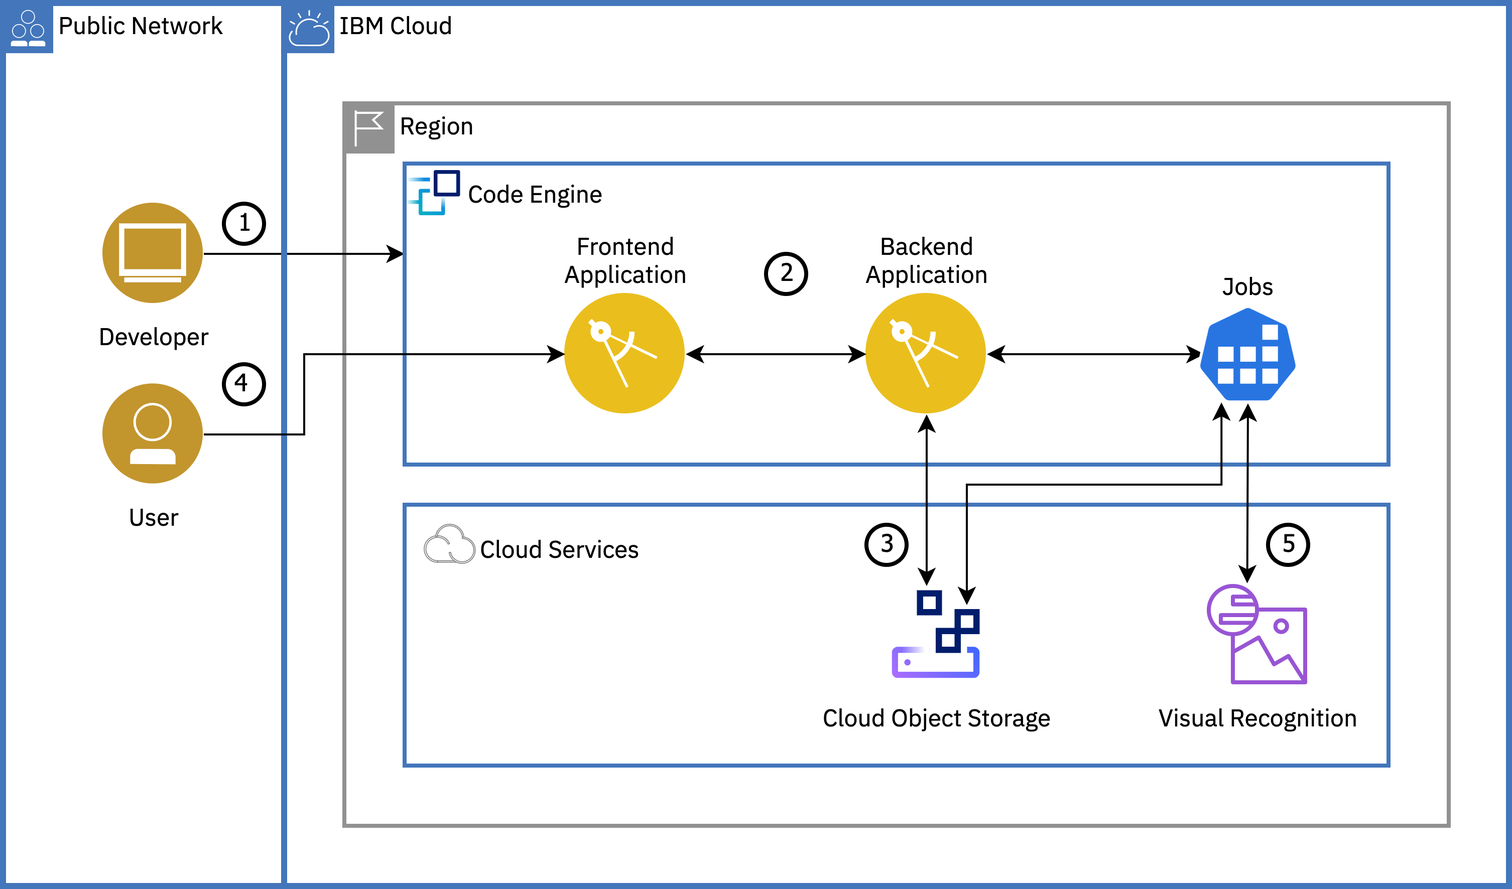
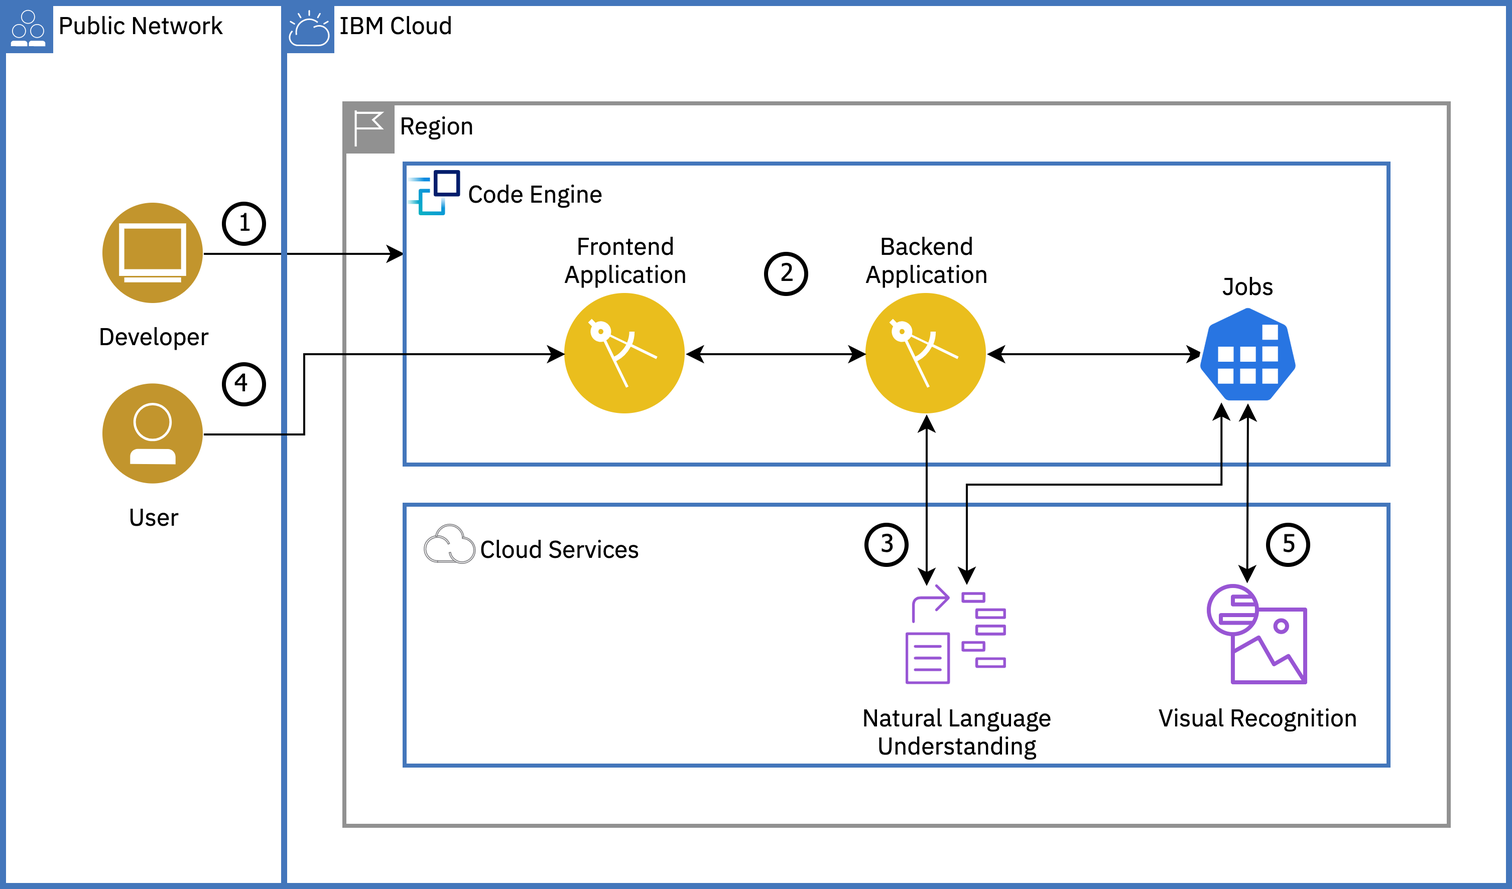
Code Engine VR --> NLU

Changed region(s): [[0.5618, 0.6518, 0.6866, 0.8691]]

diff --git a/image-classification-code-engine.md b/image-classification-code-engine.md
@@ -2,11 +2,11 @@
 subcollection: solution-tutorials
 copyright:
   years: 2020
-lastupdated: "2020-10-19"
-lasttested: "2020-09-23"
+lastupdated: "2020-12-01"
+lasttested: "2020-12-01"
 
 content-type: tutorial
-services: codeengine, containers, cloud-object-storage, visual-recognition
+services: codeengine, containers, cloud-object-storage
 account-plan: paid
 completion-time: 2h
 
@@ -27,10 +27,10 @@ completion-time: 2h
 {:note: .note}
 {:beta: .beta}
 
-# Visual recognition with {{site.data.keyword.codeengineshort}}
+# Text analysis with {{site.data.keyword.codeengineshort}}
 {: #image_classification_code_engine}
 {: toc-content-type="tutorial"}
-{: toc-services="codeengine, containers, cloud-object-storage, visual-recognition"}
+{: toc-services="codeengine, containers, cloud-object-storage"}
 {: toc-completion-time="2h"}
 
 <!--##istutorial#-->
@@ -41,15 +41,17 @@ This tutorial may incur costs. Use the [Cost Estimator](https://{DomainName}/est
 {:beta}
 <!--#/istutorial#-->
 
-In this tutorial, you will learn about {{site.data.keyword.codeenginefull}} by deploying an image classification (visual recognition) application. You will create a {{site.data.keyword.codeengineshort}} project, select the project and deploy {{site.data.keyword.codeengineshort}} components - applications and jobs to the project. You will learn how to bind {{site.data.keyword.cloud_notm}} services to your {{site.data.keyword.codeengineshort}} components. You will also understand the auto-scaling capability of {{site.data.keyword.codeengineshort}} where instances are scaled up or down (to zero) based on incoming workload.
+In this tutorial, you will learn about {{site.data.keyword.codeenginefull}} by deploying a text analysis application. You will create a {{site.data.keyword.codeengineshort}} project, select the project and deploy {{site.data.keyword.codeengineshort}} components - applications and jobs to the project. You will learn how to bind {{site.data.keyword.cloud_notm}} services to your {{site.data.keyword.codeengineshort}} components. You will also understand the auto-scaling capability of {{site.data.keyword.codeengineshort}} where instances are scaled up or down (to zero) based on incoming workload.
 {:shortdesc}
 
 {{site.data.keyword.codeenginefull_notm}} provides a platform to unify the deployment of all of your container-based applications. Whether those applications are functions, traditional 12-factor apps, batch workloads(run-to-completion) or any other container-based workloads, if they can be bundled into a container image, then {{site.data.keyword.codeengineshort}} can host and manage them for you - all on a Kubernetes-based infrastructure. And {{site.data.keyword.codeengineshort}} does this without the need for you to learn, or even know about, Kubernetes. The {{site.data.keyword.codeengineshort}} experience is designed so that you can focus on writing code and not on the infrastructure needed to host it. It is delivered as a managed service on the cloud and built on open-source projects (Kubernetes, Istio, Knative, Tekton, etc.).
 
 {{site.data.keyword.codeengineshort}} helps developers by hiding many of the complex tasks like configuration, dependency management etc., {{site.data.keyword.codeengineshort}} simplifies container-based management and enables you to concentrate on writing code. It also makes available many of the features of a serverless platform, such as "scale-to-zero".
 
+With {{site.data.keyword.nlufull}}, developers can analyze semantic features of text input, including categories, concepts, emotion, entities, keywords, metadata, relations, semantic roles, and sentiment.
+
 ## Objectives
-{: #image-classification-code-engine-objectives}
+{: #text-analysis-code-engine-objectives}
 
 * Understand {{site.data.keyword.codeenginefull}} and how it simplifies the developer experience.
 * Understand how easy it is to deploy and scale an application using {{site.data.keyword.codeengineshort}}.
@@ -64,11 +66,11 @@ In this tutorial, you will learn about {{site.data.keyword.codeenginefull}} by d
 1. Developer creates a {{site.data.keyword.codeengineshort}} project and deploys a frontend and a backend {{site.data.keyword.codeengineshort}} application.
 2. Developer connects the frontend (UI) app to the backend by modifying the frontend application to set an environment variable value to point to the backend application's endpoint.
 3. Developer provisions the required cloud services and binds them to the backend application and jobs by creating secrets and configmap.
-4. User uploads an image(s) via the frontend app that is stored in {{site.data.keyword.cos_short}} through the backend application.
-5. User runs a {{site.data.keyword.codeengineshort}} job via the backend to classify the image by pushing the image to {{site.data.keyword.visualrecognitionshort}}. The result is then saved to {{site.data.keyword.cos_short}} and displayed in the frontend app when the user clicks the refresh button.
+4. User uploads a text file(s) via the frontend app that is stored in {{site.data.keyword.cos_short}} through the backend application.
+5. User runs a {{site.data.keyword.codeengineshort}} job via the backend to analyze text by pushing the text to {{site.data.keyword.nlushort}}. The result is then saved to {{site.data.keyword.cos_short}} and displayed in the frontend app when the user clicks the refresh button.
 
 ## Before you begin
-{: #image-classification-code-engine-prereqs}
+{: #text-analysis-code-engine-prereqs}
 
 This tutorial requires:
 * {{site.data.keyword.cloud_notm}} CLI - This CLI tool will enable you to interact with {{site.data.keyword.cloud_notm}}.
@@ -83,7 +85,7 @@ You will find instructions to download and install these tools for your operatin
 
 
 ## Create an {{site.data.keyword.codeenginefull_notm}} project
-{: #image-classification-code-engine-create_code_engine_project}
+{: #text-analysis-code-engine-create_code_engine_project}
 {: step}
 
 In this section, you will create a {{site.data.keyword.codeengineshort}} project. A project is a grouping of the components of your project that are typically meant to go together as part of some overall workload.
@@ -113,15 +115,15 @@ Putting components into a single project enables you to manage access control mo
    {:pre}
 
 ## Deploy the frontend and backend apps as {{site.data.keyword.codeengineshort}} applications
-{: #image-classification-code-engine-deploy_app}
+{: #text-analysis-code-engine-deploy_app}
 {: step}
 
-{{site.data.keyword.codeengineshort}} Applications run your code to serve HTTP requests, autoscale up and back down to zero, and offer traffic routing to multiple revisions. In this section, you will deploy your front-end and back-end applications to {{site.data.keyword.codeengineshort}} under the targeted project. This front-end web application will allow users to upload images, while the backend application will write the image to {{site.data.keyword.cos_full_notm}}.
+{{site.data.keyword.codeengineshort}} Applications run your code to serve HTTP requests, autoscale up and back down to zero, and offer traffic routing to multiple revisions. In this section, you will deploy your front-end and back-end applications to {{site.data.keyword.codeengineshort}} under the targeted project. This front-end web application will allow users to upload text files, while the backend application will write the file to {{site.data.keyword.cos_full_notm}}.
 
 We've already built images for the two applications and pushed them to the public container registry. You will use these pre-built container images to deploy the respective applications.
 
 ### Deploy a frontend application
-{: #image-classification-code-engine-4}
+{: #text-analysis-code-engine-4}
 
 1. To deploy a new {{site.data.keyword.codeengineshort}} application, you need to run the following command; providing a service name "frontend" and the pre-built container image as a parameter to `--image` flag.
 
@@ -130,9 +132,9 @@ We've already built images for the two applications and pushed them to the publi
    ```
    {:pre}
 
-   After running this command, you should see some output with a URL to your application. It should look something like: `https://frontend.b7bb43f4-525e.us-south.codeengine.appdomain.cloud`. Make note of this application URL for the next step. With just these two pieces of data (application name and image name), {{site.data.keyword.codeengineshort}} has deployed your application and will handle all of the complexities of configuring it and managing it for you.
+   After running this command, you should see some output with a URL to your application. It should look something like: `https://frontend.305atabsd0w.us-south.codeengine.appdomain.cloud`. Make note of this application URL for the next step. With just these two pieces of data (application name and image name), {{site.data.keyword.codeengineshort}} has deployed your application and will handle all of the complexities of configuring it and managing it for you.
 
-   The application source code used to build the container images - `ibmcom/*` is available in a [GitHub repo](https://github.com/IBM-Cloud/code-engine-image-classification) for your reference.
+   The application source code used to build the container images - `ibmcom/*` is available in a [GitHub repo](https://github.com/IBM-Cloud/code-engine-text-analysis) for your reference.
    {:tip}
 
 2. Copy the URL from the `application create` output and open it in a browser to see an output similar to this
@@ -150,7 +152,7 @@ We've already built images for the two applications and pushed them to the publi
 Congratulations!! You've just deployed a web application to {{site.data.keyword.codeengineshort}} with a simple command and also without needing to know about the intricacies of Kubernetes such as pods, deployments, services, and ingress.
 
 ### Scale the application
-{: #image-classification-code-engine-5}
+{: #text-analysis-code-engine-5}
 
 When you created the application with the `application create` command, you only passed in an image to use and a name for your application. While this is the minimum amount of information to deploy an application, there are a number of other knobs you have control over. Among others, you can set the number of requests that can be processed concurrently per instance, the amount of CPU for the instance of the application, the amount of memory set for the instance of the application, the environment variables for the application, the maximum and minimum number of instances that can be used for this application, and the port where the application listens for requests.
 
@@ -177,17 +179,17 @@ Most of these values have a default set if nothing is provided as an option when
 
     Expected Output:
     ```
-    frontend-i4fmh-2-deployment-6996489d7c-4lq4w   2/2     Running       0          59s
-    frontend-i4fmh-2-deployment-6996489d7c-5d5nx   1/2     Running       0          8s
-    frontend-i4fmh-2-deployment-6996489d7c-697g2   1/2     Running       0          6s
-    frontend-i4fmh-2-deployment-6996489d7c-t27d2   1/2     Running       0          8s
-    frontend-i4fmh-2-deployment-6996489d7c-vzmdd   1/2     Running       0          9s
+    frontend-gxbsr-2-deployment-5f55c4cf6f-869fb  2/2      Running  0         24s
+    frontend-gxbsr-2-deployment-5f55c4cf6f-bg2cn  1/2      Running  0         9s
+    frontend-gxbsr-2-deployment-5f55c4cf6f-ckxqw  2/2      Running  0         9s
+    frontend-gxbsr-2-deployment-5f55c4cf6f-djcj6  2/2      Running  0         9s
+    frontend-gxbsr-2-deployment-5f55c4cf6f-wb6j8  2/2      Running  0         9s
     ```
 
 ### Deploy a backend application and test the connection
-{: #image-classification-code-engine-6}
+{: #text-analysis-code-engine-6}
 
-1. To deploy a new backend application to store your images into {{site.data.keyword.cos_full_notm}}, run this command
+1. To deploy a new backend application to store your text files into {{site.data.keyword.cos_full_notm}}, run this command
    ```sh
    ibmcloud code-engine application create --name backend --image ibmcom/backend --cluster-local
    ```
@@ -209,18 +211,18 @@ Most of these values have a default set if nothing is provided as an option when
    The `--env` flag can appear as many times as you would like if you need to set more than one environment variable. This option could have also been used on the `ibmcloud code-engine application create` command for the frontend application if you knew its value at that time.
    {:tip}
 
-4. Refresh the frontend URL on the browser to test the connection to the backend application. You should see a page with an option to upload an image and also an error message from the backend application as the backend is still not connected with the required {{site.data.keyword.cloud_notm}} services to store and process the image. Clicking on **Upload image** should also show a similar error message.
+4. Refresh the frontend URL on the browser to test the connection to the backend application. You should see a page with an option to upload a text file(.txt) and also an error message from the backend application as the backend is still not connected with the required {{site.data.keyword.cloud_notm}} services to store and process the text files. Clicking on **Upload text file** should also show a similar error message.
    ![](images/solution54-code-engine/frontend.png)
 
 ## Connect the backend application to {{site.data.keyword.cos_short}} service
-{: #image-classification-code-engine-0}
+{: #text-analysis-code-engine-0}
 {:connect_cloud_services}
 {: step}
 
-In this section, you will provision the required {{site.data.keyword.cos_short}} and {{site.data.keyword.visualrecognitionshort}} services and bind the {{site.data.keyword.cos_short}} service to the backend application. The backend application will store the images into the {{site.data.keyword.cos_short}}, while the {{site.data.keyword.visualrecognitionshort}} will be used later in the tutorial to classify the images.
+In this section, you will provision the required {{site.data.keyword.cos_short}} and {{site.data.keyword.nlushort}} services and bind the {{site.data.keyword.cos_short}} service to the backend application. The backend application will store the text files into the {{site.data.keyword.cos_short}}, while the {{site.data.keyword.nlushort}} will be used later in the tutorial to perform text analysis on the uploaded text files.
 
-### Provision {{site.data.keyword.cos_short}} and {{site.data.keyword.visualrecognitionshort}} services
-{: #image-classification-code-engine-create_services}
+### Provision {{site.data.keyword.cos_short}} and {{site.data.keyword.nlushort}} services
+{: #text-analysis-code-engine-create_services}
 
 1. Create an instance of [{{site.data.keyword.cos_short}}](https://{DomainName}/catalog/services/cloud-object-storage)
    1. Select the **Lite** plan or the **Standard** plan if you already have an {{site.data.keyword.cos_short}} service instance in your account.
@@ -236,20 +238,20 @@ In this section, you will provision the required {{site.data.keyword.cos_short}}
    4. Click **Create bucket**
 4. On the left pane under **Endpoints**, Select **Cross Region** resiliency and select a Location near to you.
 5. Copy the desired **Public** endpoint to access your bucket and **save** the endpoint for quick reference.
-6. Create an instance of [{{site.data.keyword.visualrecognitionshort}}](https://{DomainName}/catalog/services/visual-recognition)
-   1. Select a region and select **Standard** plan.
-   2. Set **Service name** to **code-engine-vr** and select a resource group where you created the {{site.data.keyword.codeengineshort}} project.
+6. Create an instance of [{{site.data.keyword.nlushort}}](https://{DomainName}/catalog/services/natural-language-understanding)
+   1. Select a region and select **Lite** plan.
+   2. Set **Service name** to **code-engine-nlu** and select a resource group where you created the {{site.data.keyword.codeengineshort}} project.
    3. Click on **Create**.
 7. Under **Service credentials**, click on **New credential**
-   1. Give it a name - `vr-for-code-engine` and select **Writer** as the role.
+   1. Give it a name - `nlu-for-code-engine` and select **Writer** as the role.
    2. Click **Add**.
 
 ### Bind the {{site.data.keyword.cos_short}} service to the backend application
-{: #image-classification-code-engine-9}
+{: #text-analysis-code-engine-9}
 
 Now, you will need to pass in the credentials for the {{site.data.keyword.cos_full_notm}} instance you just created into your backend application. You will do this by binding the {{site.data.keyword.cos_short}} service to your application, which automatically adds credentials for a service to the environment variables of the container for your application or job.
 
-1. Create a binding for {{site.data.keyword.cos_short}} service with a prefix `COS` for ease of use in your application. Creating this binding will give your {{site.data.keyword.codeengineshort}} application access to the service credentials for {{site.data.keyword.cos_full_notm}} so that it can store images in COS.
+1. Create a binding for {{site.data.keyword.cos_short}} service with a prefix `COS` for ease of use in your application. Creating this binding will give your {{site.data.keyword.codeengineshort}} application access to the service credentials for {{site.data.keyword.cos_full_notm}} so that it can store files in COS.
    ```sh
    ibmcloud code-engine application bind --name backend --service-instance code-engine-cos --service-credential cos-for-code-engine --prefix COS
    ```
@@ -258,7 +260,7 @@ Now, you will need to pass in the credentials for the {{site.data.keyword.cos_fu
    If you have created the {{site.data.keyword.cos_short}} service instance with a different name, pass your service name with `--service-instance` flag.
    {:tip}
 
-2. You will also need to provide the application with your Bucket name where you want to store the images, as well as your COS endpoint. Define a configmap to hold the bucket name and the endpoint as the information isn't sensitive. ConfigMaps are a Kubernetes object, which allows you to decouple configuration artifacts from image content to keep containerized applications portable. You could create this configmap from a file or from a key value pair -- for now we'll use a key value pair with the `--from-literal` flag.
+2. You will also need to provide the application with your Bucket name where you want to store the text files, as well as your COS endpoint. Define a configmap to hold the bucket name and the endpoint as the information isn't sensitive. ConfigMaps are a Kubernetes object, which allows you to decouple configuration artifacts from image content to keep containerized applications portable. You could create this configmap from a file or from a key value pair -- for now we'll use a key value pair with the `--from-literal` flag.
    ```sh
    ibmcloud code-engine configmap create --name backend-configuration --from-literal=COS_BUCKETNAME=<COS_BUCKET_NAME> --from-literal=COS_ENDPOINT=<COS_ENDPOINT>
    ```
@@ -280,19 +282,19 @@ Now, you will need to pass in the credentials for the {{site.data.keyword.cos_fu
    {:pre}
 
 ## Test the application
-{: #image-classification-code-engine-test_the_app}
+{: #text-analysis-code-engine-test_the_app}
 {: step}
 
-Now that you have the backend application connected to the frontend application and provided all the required credentials, let's test it by uploading images for image classification. To test, you will create a job configuration and use the job configuration to run a job to classify images using {{site.data.keyword.visualrecognitionshort}} service.
+Now that you have the backend application connected to the frontend application and provided all the required credentials, let's test it by uploading files for text analysis. To test, you will create a job configuration and use the job configuration to run a job to analyze text using {{site.data.keyword.nlushort}} service.
 
 Jobs in {{site.data.keyword.codeengineshort}} are meant to run to completion as batch or standalone executables. They are not intended to provide lasting endpoints to access like a {{site.data.keyword.codeengineshort}} application does.
 
 ### Create a job configuration
-{: #image-classification-code-engine-11}
+{: #text-analysis-code-engine-11}
 
 Jobs, unlike applications which react to incoming HTTP requests, are meant to be used for running container images that contain an executable designed to run one time and then exit. When you create a `job`, you can specify workload configuration information that is used each time the job is run. You can create a job from the console or with the CLI.
 
-This job will read images from {{site.data.keyword.cos_full_notm}}, and then classify them using the {{site.data.keyword.visualrecognitionshort}} Service. It will need to have access to service credentials for both services.
+This job will read text files from {{site.data.keyword.cos_full_notm}}, and then analyze them using the {{site.data.keyword.nlushort}} Service. It will need to have access to service credentials for both services.
 
 1. On a terminal, run the following command to create a job configuration,
    ```sh
@@ -300,32 +302,32 @@ This job will read images from {{site.data.keyword.cos_full_notm}}, and then cla
    ```
    {:pre}
 
-   You can set the version of {{site.data.keyword.visualrecognitionshort}} service using the `--env` flag. For versioning, check this [link](https://{DomainName}/apidocs/visual-recognition/visual-recognition-v3#versioning)
+   You can set the version of {{site.data.keyword.nlushort}} service using the `--env` flag. For versioning, check this [link](https://{DomainName}/docs/natural-language-understanding?topic=natural-language-understanding-versioning)
    {:tip}
 
 ### Bind the {{site.data.keyword.cloud_notm}} services to job
-{: #image-classification-code-engine-12}
+{: #text-analysis-code-engine-12}
 
 1. Let's create a binding for {{site.data.keyword.cos_short}} service with a prefix `COS_JOB` to be used with the jobs in the subsequent steps,
    ```sh
    ibmcloud code-engine job bind --name backend-job --service-instance code-engine-cos --service-credential cos-for-code-engine --prefix COS_JOB
    ```
    {:pre}
-1. Similarly, let's bind {{site.data.keyword.visualrecognitionshort}} service with a prefix `VR_JOB` to classify the uploaded images,
+2. Similarly, let's bind {{site.data.keyword.nlushort}} service with a prefix `NLU_JOB` to analyze the uploaded text files,
    ```sh
-   ibmcloud code-engine job bind --name backend-job --service-instance code-engine-vr --service-credential vr-for-code-engine --prefix VR_JOB
+   ibmcloud code-engine job bind --name backend-job --service-instance code-engine-nlu --service-credential nlu-for-code-engine --prefix NLU_JOB
    ```
    {:pre}
-2. To verify whether the job is updated with the binding and configmap. You can run the below command and look for the `Service Bindings` and `Environment Variables` sections in the output
+3. To verify whether the job is updated with the binding and configmap. You can run the below command and look for the `Service Bindings` and `Environment Variables` sections in the output
    ```sh
    ibmcloud code-engine job get --name backend-job
    ```
    {:pre}
 
 ### Run the job
-{: #image-classification-code-engine-13}
+{: #text-analysis-code-engine-13}
 
-1. Go to the frontend UI and **upload images** for classification.
+1. Go to the frontend UI and **upload text files** for text analysis.
 2. To run a job with the configuration created above, use the `jobrun submit` command,
    ```sh
    ibmcloud code-engine jobrun submit --name backend-jobrun --job backend-job
@@ -345,15 +347,15 @@ This job will read images from {{site.data.keyword.cos_full_notm}}, and then cla
    ibmcloud code-engine jobrun logs --instance <JOBRUN_INSTANCE_NAME>
    ```
    {:pre}
-5. In the frontend UI, click on the **refresh** button (next to Upload image) to see the results for each of the uploaded images by expanding **Show results** on each image.
-6. Upload new images or delete individual image by clicking the **delete** icon, resubmit the **jobrun** with the below command and hit the **refresh** button to see the results.
+5. In the frontend UI, click on the **refresh** button (next to Upload text file) to see the **Keywords** and **JSON** for each of the uploaded text files.
+6. Upload new files or delete individual file by clicking the **delete** icon, resubmit the **jobrun** with the below command and hit the **refresh** button to see the results.
    ```sh
    ibmcloud code-engine jobrun resubmit --jobrun backend-jobrun
    ```
    {:pre}
 
 ## Remove resources
-{: #image-classification-code-engine-cleanup}
+{: #text-analysis-code-engine-cleanup}
 {: step}
 
 1. With the command below, delete the project to delete all it's components (applications, jobs etc.).
@@ -362,11 +364,11 @@ This job will read images from {{site.data.keyword.cos_full_notm}}, and then cla
    ```
    {:pre}
 2. Navigate to [Resource List](https://{DomainName}/resources/)
-3. Delete the services you have created:
+3. Delete the services you created:
  * [{{site.data.keyword.cos_full}}](https://{DomainName}/catalog/services/cloud-object-storage)
- * [{{site.data.keyword.visualrecognitionfull}}](https://{DomainName}/catalog/services/visual-recognition)
+ * [{{site.data.keyword.nlufull}}](https://{DomainName}/catalog/services/natural-language-understanding)
 
 ## Related resources
-{: #image-classification-code-engine-related_resources}
+{: #text-analysis-code-engine-related_resources}
 
-- [{{site.data.keyword.codeenginefull_notm}} Documentation](/docs/codeengine)
+- [{{site.data.keyword.codeenginefull_notm}} Documentation](https://{DomainName}/docs/codeengine)
